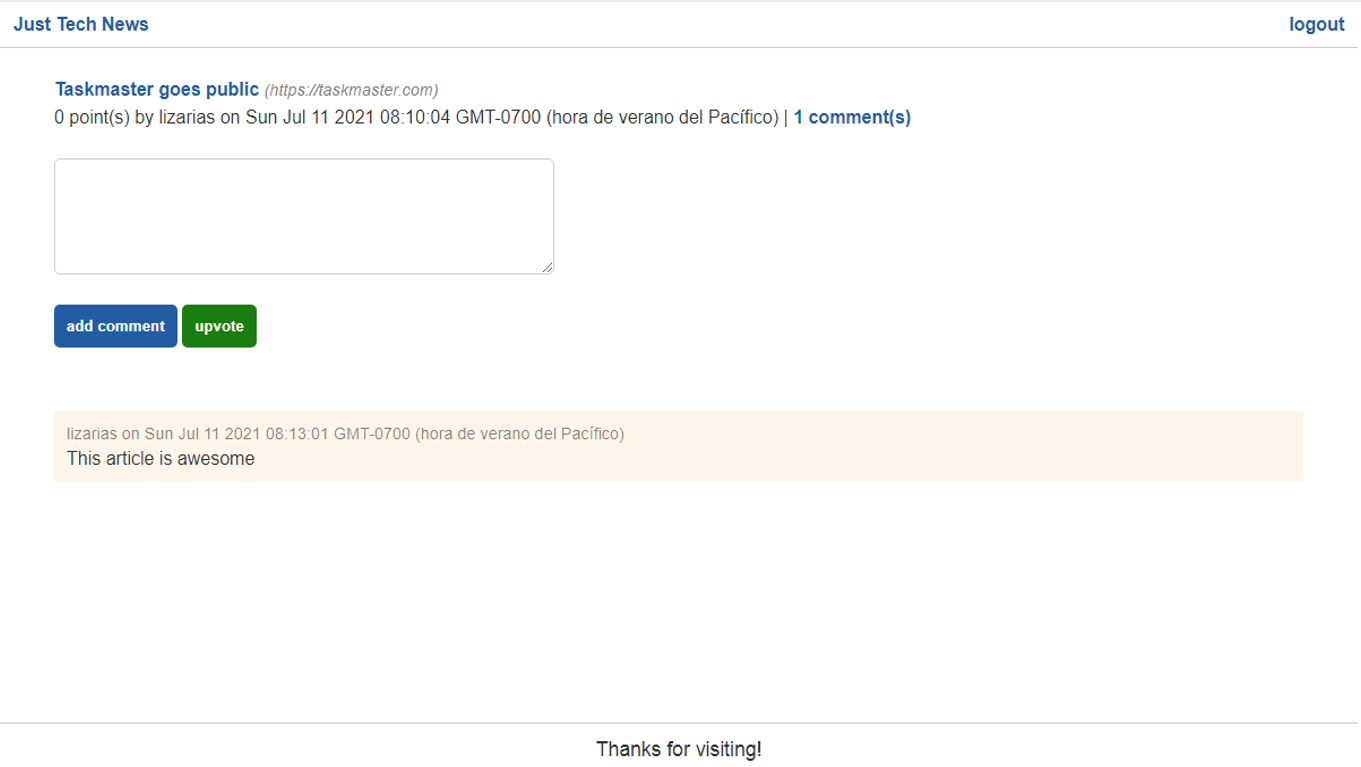
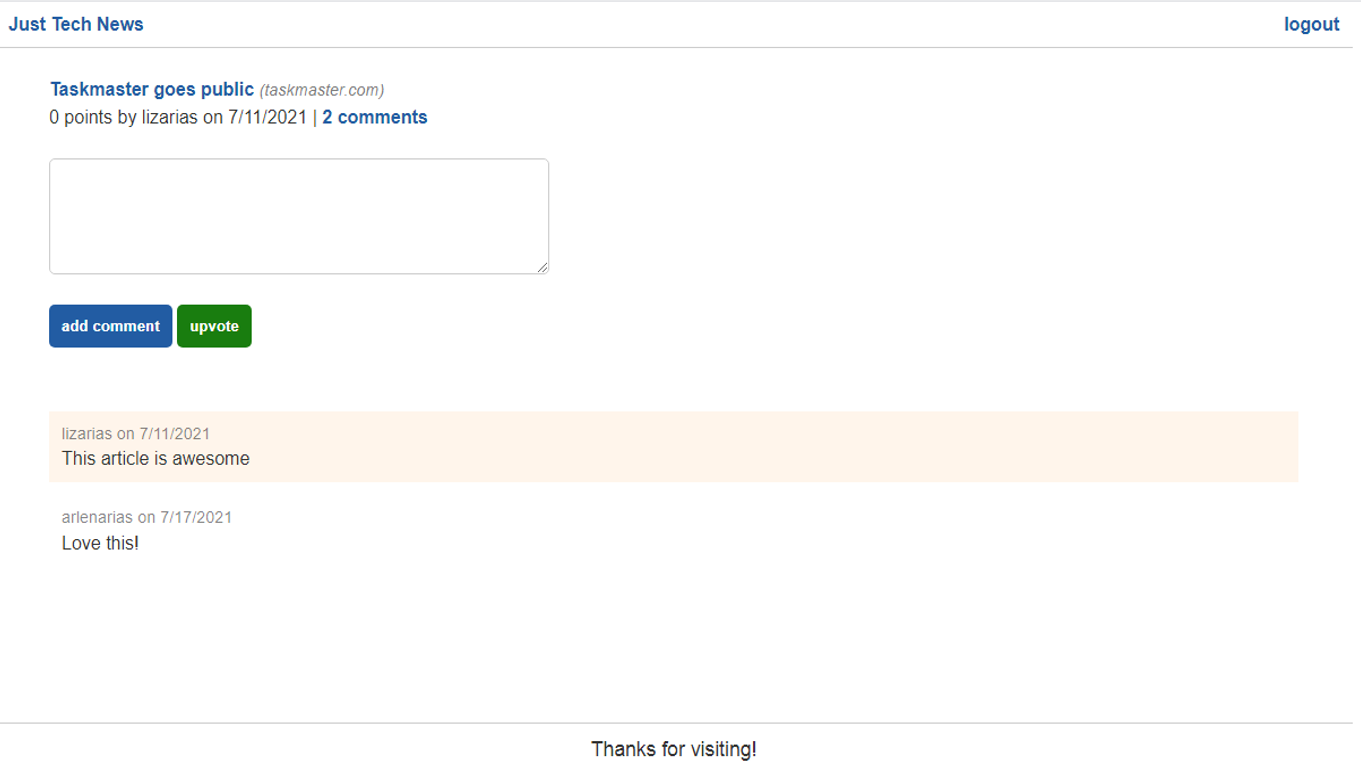
add helper functions to handlebars.js

diff --git a/server.js b/server.js
@@ -2,6 +2,7 @@ const path = require('path');
 const express = require('express');
 const session = require('express-session');
 const exphbs = require('express-handlebars');
+const helpers = require('./utils/helpers');
 
 const app = express();
 const PORT = process.env.PORT || 4000;
@@ -21,7 +22,7 @@ const sess = {
 
 app.use(session(sess));
 
-const hbs = exphbs.create({});
+const hbs = exphbs.create({ helpers });
 
 app.engine('handlebars', hbs.engine);
 app.set('view engine', 'handlebars');
